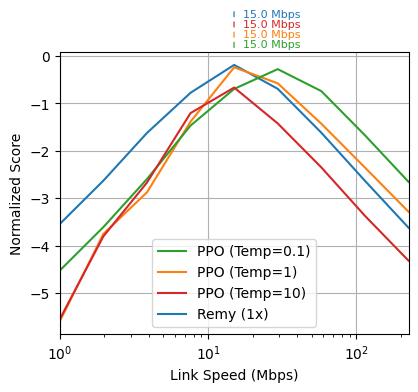
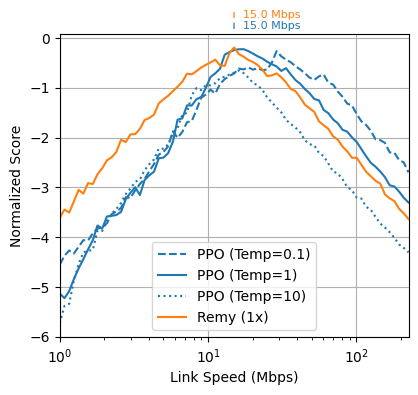
Update on Overleaf.

diff --git a/body.tex b/body.tex
@@ -9,6 +9,7 @@ TODO:
 - (Armaan) review related work
 - (Armaan) explain the PPO training setup
 - (Armaan) write PPO-specific analysis
+- (Armaan) add table with PPO configuration
 
 
 MAYBE TODO:
@@ -182,8 +183,72 @@ $a^k \sim \text{Categorical}(\pi(a^k_1), \ldots, \pi(a^k_{N_k}))$ is sampled
 independently for each dimension $k$, selecting a specific discretized value for
 the window increment, window multiple, and minimum intersend.
 
-\subsubsection{bla}
+\subsubsection{Training}
 
+To learn the parameters of our neural network, we use proximal policy
+optimization, which is a member of a broader class of policy gradient methods.
+Abstractly, in this process, at every training iteration, the single current
+neural network is loaded into all senders in a fixed number of simulations
+(i.e., rollouts), and the final utility is recorded for each rollout. Because
+actions are sampled from a distribution defined by our network at a given input,
+this will naturally yield diversity in actions at each input that can be used to
+generate a gradient signal. Then, the parameters of the network are updated by
+slightly increasing the probability of actions in rollouts with a final utility
+that is greater than the mean utility across all rollouts in the current
+iteration and decreasing the probability of actions in rollouts with a utility
+less than the mean. Because the entire domain of the action distribution is
+defined by the policy network, we can increase the probability of sampling an
+action from our policy network in a fully differentiable way by increasing the
+element of the score vector, $z_{k,i}$, corresponding to that action and
+decreasing all other elements of $\mathbf{z_k}$ along the same action dimension.
+This process of upweighting and downweighting actions is applied equally to all
+senders in each rollout based on the aggregate final utility of the rollout.
+
+During each rollout, every sender records its experience as a sequence of
+events, where each event consists of an observation, the sampled action, the
+log-probability of that action under the current policy, and the final utility
+of the rollout. We assume the joint probability over actions factorizes across the three
+dimensions, so the joint log-probability is
+$\log \pi(a \mid s) = \sum_k \log \pi(a^k \mid s)$.
+
+To compute the update, a batch of events is sampled uniformly from the
+experience collected in the current iteration. An ``advantage'' $\hat{A}_i$ for
+each event is obtained by normalizing the associated utility to zero mean and
+unit variance across the batch. For each sampled event, the network is evaluated
+on the recorded observation to produce new log-probabilities for the actions
+that were taken. The probability ratio between the new and old policies,
+$r_i = \exp(\log \pi_{\theta}(a \mid s) - \log \pi_{\theta_{\text{old}}}(a \mid s))$,
+is used to define the PPO clipped surrogate loss:
+%
+\begin{equation}
+  L^{\text{PPO}}_i = -\min\bigl(r_i \hat{A}_i,\; \text{clip}(r_i,\, 1{-}\epsilon,\, 1{+}\epsilon)\, \hat{A}_i\bigr),
+\end{equation}
+%
+where $\epsilon$ is the clipping threshold. An entropy bonus for each event is
+computed as the sum of the entropies of the three categorical distributions:
+%
+\begin{equation}
+  L^{\text{ent}}_i = \sum_k H\!\bigl(\pi(\cdot \mid s_i; k)\bigr).
+\end{equation}
+%
+Each event is assigned a weight $w_i$ equal to the average number of events
+across the batch divided by the total number of events across all senders in the
+rollout that event was sampled from.
+The overall loss, minimized over the batch, is:
+%
+\begin{equation}
+  L = \frac{1}{B} \sum_{i=1}^{B} w_i \bigl( L^{\text{PPO}}_i - \alpha\, L^{\text{ent}}_i \bigr),
+\end{equation}
+%
+where $\alpha$ is the entropy coefficient. This is minimized using AdamW, with
+gradients accumulated over multiple mini-batches before each optimizer step, and
+the process is repeated for a fixed number of iterations per batch of collected
+experience.
+
+
+
+%% - discuss why we divide by the number of events
+%% - discuss input normalization
 
 \subsection{AlphaCC: LLM-Guided Code Evolution}
 \label{sec:alphacc}
@@ -277,7 +342,7 @@ policy was hand-translated to C++ for this evaluation (\S\ref{sec:alphacc}).
 \centering
 \includegraphics[width=\columnwidth]{figures/link_sweep_ppt.png}
 \caption{
-CCAs from all three CCA learning schemes evaluated in Remy's C++ simulator. Link ranges used in training are specified by horizontal bars (or vertical lines for single rate training) above the plot. 
+CCAs from all three CCA learning schemes evaluated in Remy's C++ simulator. Link ranges used in training are specified by horizontal bars (or vertical lines for single rate training) above. 
 }
 \label{fig:cpp_gen}
 \end{figure}
@@ -295,7 +360,7 @@ observed in~\cite{sivaraman2014experimental}.
 \begin{figure}[t]
 \centering
 \includegraphics[width=\columnwidth]{figures/PPO_temp_sweep.png}
-\caption{PPO CCA performance across link rates vs sampling temperature, which tunes the sharpness (entropy) of the policy's action distribution. Higher temperature means higher entropy.}
+\caption{PPO CCA performance across link rates vs sampling temperature. Higher temperature means higher entropy of action distribution.}
 \label{fig:ppo_temp_sweep}
 \end{figure}
 
